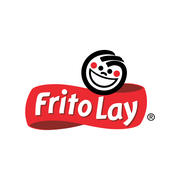
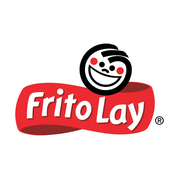
Refresh FritoLay branding on auth screens
Updated public branding assets (favicon, apple touch icon, and PWA icons) and added a new `logo-fritolay.png`. Updated the login and password recovery views to use the new logo image, adjusted header spacing, and simplified heading/subtitle styling for a cleaner, consistent brand presentation.

Changed region(s): [[0.0833, 0.2222, 0.9167, 0.7778]]

diff --git a/frontend/resources/views/auth/login.blade.php b/frontend/resources/views/auth/login.blade.php
@@ -7,14 +7,11 @@
     <div class="max-w-md w-full bg-white rounded-2xl shadow-xl shadow-gray-200/60 border border-gray-100 p-8 transition-all">
         
         <!-- Header con Logo Fritolay -->
-        <div class="text-center mb-8">
-            <div class="inline-flex items-center justify-center mb-3">
-                <img src="/apple-touch-icon.png" alt="Fritolay" class="w-16 h-16 object-contain drop-shadow-sm">
+        <div class="text-center mb-6">
+            <div class="inline-flex items-center justify-center">
+                <img src="/logo-fritolay.png" alt="FritoLay" class="h-28 w-auto object-contain">
             </div>
-            <h1 class="text-2xl font-black text-gray-900 tracking-tight">
-                Frito<span class="text-[#F5C518]">lay</span>
-            </h1>
-            <p class="text-xs font-semibold text-gray-500 mt-1 uppercase tracking-wider">Sistema de Comercio y Distribución</p>
+            <p class="text-[11px] font-bold text-gray-500 mt-2 uppercase tracking-widest">Sistema de Comercio y Distribución</p>
         </div>
 
         <!-- Alerta de Error -->

diff --git a/frontend/resources/views/auth/recover.blade.php b/frontend/resources/views/auth/recover.blade.php
@@ -4,12 +4,11 @@
 
 @section('content')
 <div class="max-w-md mx-auto mt-10 bg-white p-8 rounded-lg shadow-md" x-data="recoverForm()">
-    <div class="text-center mb-8">
-        <div class="inline-flex items-center justify-center mb-3">
-            <img src="/apple-touch-icon.png" alt="Fritolay" class="w-16 h-16 object-contain drop-shadow-sm">
+    <div class="text-center mb-6">
+        <div class="inline-flex items-center justify-center">
+            <img src="/logo-fritolay.png" alt="FritoLay" class="h-28 w-auto object-contain">
         </div>
-        <h1 class="text-3xl font-bold text-primary">Frito<span class="text-secondary">lay</span></h1>
-        <p class="text-neutral-dark mt-2">Recuperar Contraseña</p>
+        <p class="text-xs font-bold text-gray-500 mt-2 uppercase tracking-wider">Recuperar Contraseña</p>
     </div>
 
     <!-- Step 1: Request PIN -->
